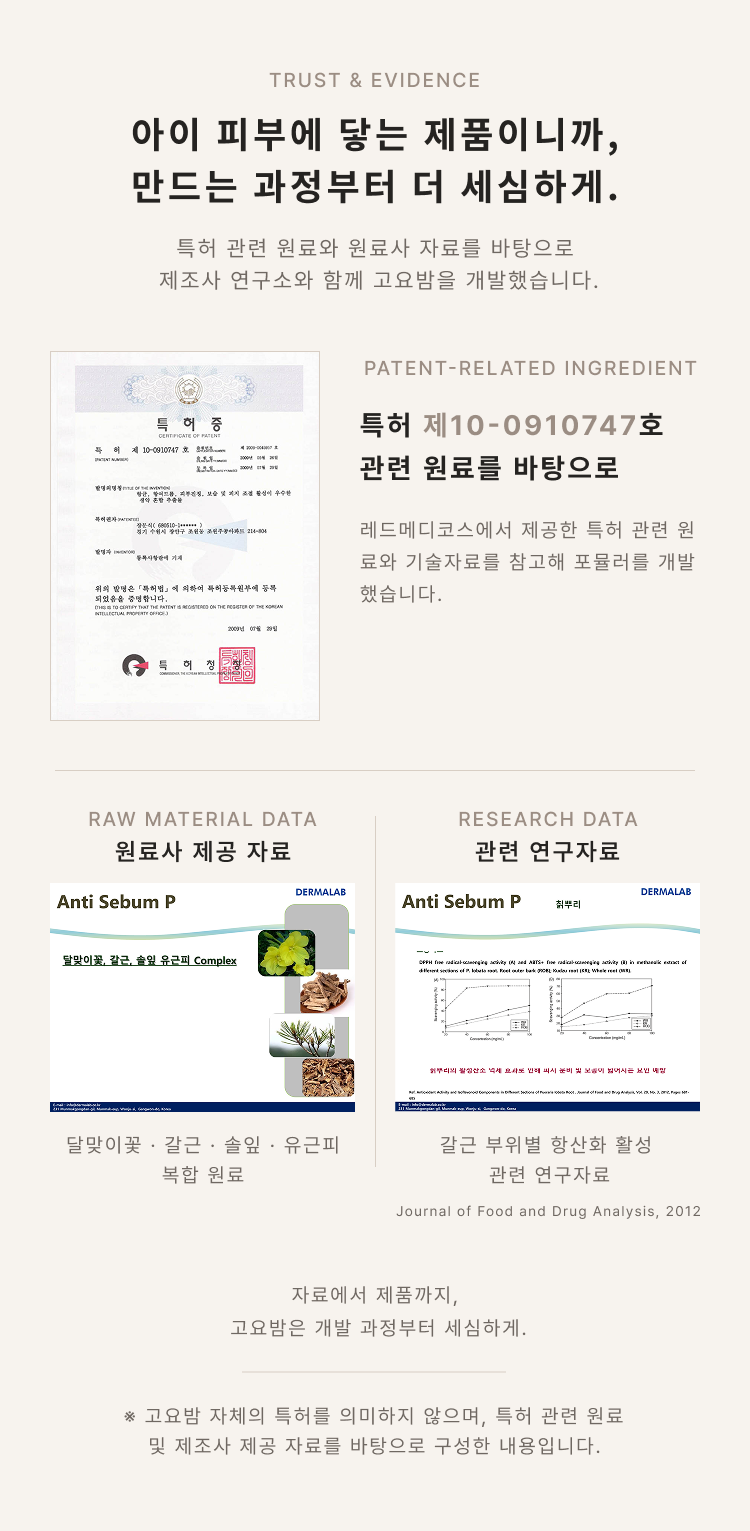
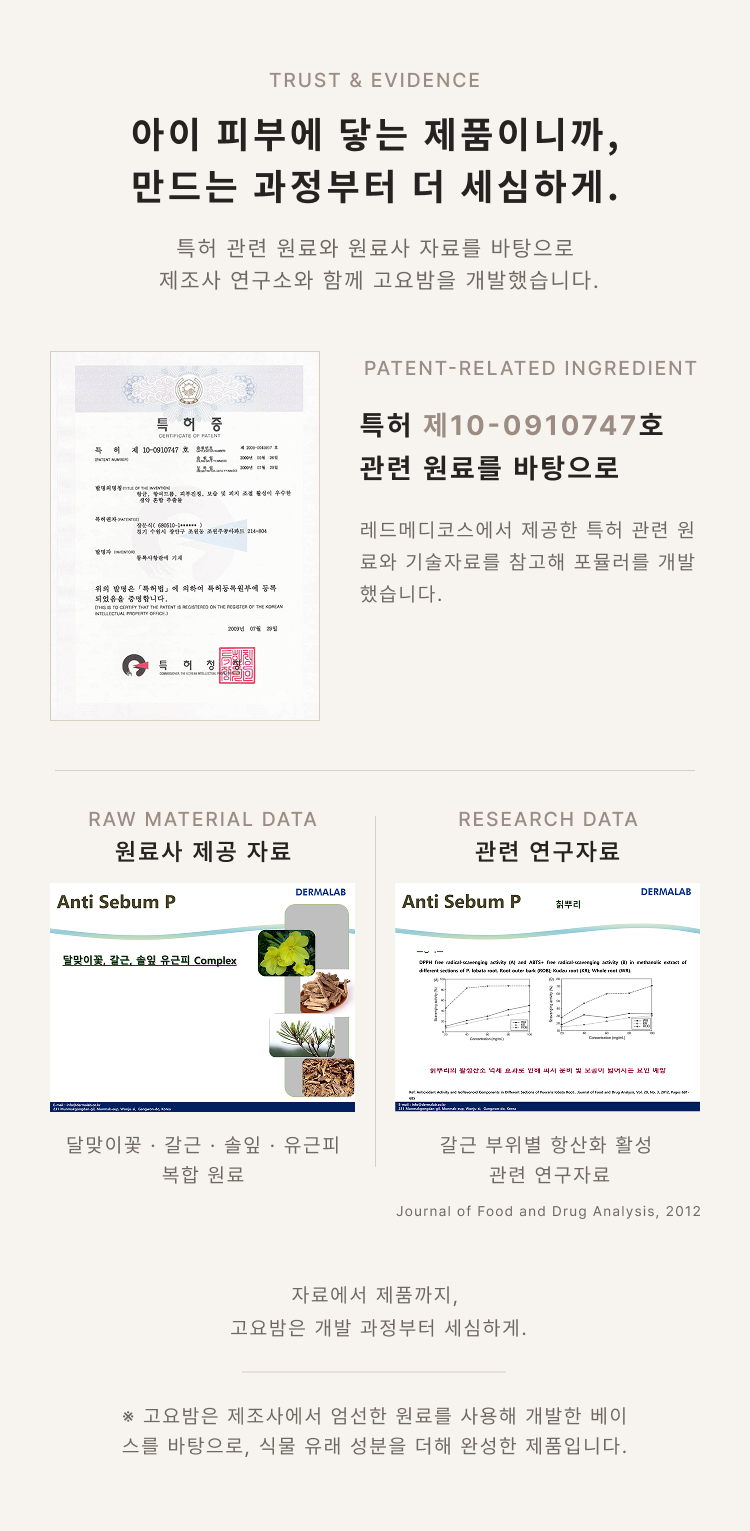
fix: update GOYOBAM detail pages 8 and 13

Changed region(s): [[0.1533, 0.921, 0.828, 0.9517]]

diff --git a/resole-lotion-demo/index.html b/resole-lotion-demo/index.html
@@ -54,8 +54,8 @@
       <div class="store-section-head"><div><p class="section-kicker">NEW ARRIVAL</p><h2>새롭게 만나는 RESOLE</h2></div><a href="#all">전체보기 <span>→</span></a></div>
       <div class="product-rail" aria-label="신상품 목록">
         <article class="product-card">
-          <a href="product/goyobam.html?v=20260905-r7" class="product-image-wrap"><span class="card-badge mist">NEW</span><img src="assets/goyobam/shop/thumb01.png?v=20260827-r1" alt="ROOTEDIT GOYOBAM 고요밤 150 ml" /></a>
-          <div class="product-card-body"><p class="product-brand">ROOTEDIT</p><a href="product/goyobam.html?v=20260905-r7" class="product-name">GOYOBAM 고요밤 150 ml</a><div class="product-availability"><strong>PORTFOLIO</strong><span>상세 보기</span></div><p class="product-meta">아이 피부 케어, 무엇부터 달라야 할까요?</p></div>
+          <a href="product/goyobam.html?v=20260908-r8" class="product-image-wrap"><span class="card-badge mist">NEW</span><img src="assets/goyobam/shop/thumb01.png?v=20260827-r1" alt="ROOTEDIT GOYOBAM 고요밤 150 ml" /></a>
+          <div class="product-card-body"><p class="product-brand">ROOTEDIT</p><a href="product/goyobam.html?v=20260908-r8" class="product-name">GOYOBAM 고요밤 150 ml</a><div class="product-availability"><strong>PORTFOLIO</strong><span>상세 보기</span></div><p class="product-meta">아이 피부 케어, 무엇부터 달라야 할까요?</p></div>
         </article>
         <article class="product-card">
           <a href="product/cream-mist.html" class="product-image-wrap"><span class="card-badge mist">NEW</span><img src="assets/cream-mist/shop/thumb01.jpg" alt="RESOLE 크림 미스트 80 mL" /></a>
@@ -82,7 +82,7 @@
     <section id="all" class="store-section store-shell compact-bottom">
       <div class="store-section-head"><div><p class="section-kicker">ALL PRODUCTS</p><h2>전체 상품</h2></div></div>
       <div class="all-product-grid">
-        <article class="product-card"><a href="product/goyobam.html?v=20260905-r7" class="product-image-wrap"><img src="assets/goyobam/shop/thumb06.png?v=20260827-r1" alt="ROOTEDIT GOYOBAM 고요밤 150 ml" /></a><div class="product-card-body"><p class="product-brand">ROOTEDIT</p><a href="product/goyobam.html?v=20260905-r7" class="product-name">GOYOBAM 고요밤 150 ml</a><div class="product-availability"><strong>PORTFOLIO</strong><span>상세 보기</span></div></div></article>
+        <article class="product-card"><a href="product/goyobam.html?v=20260908-r8" class="product-image-wrap"><img src="assets/goyobam/shop/thumb06.png?v=20260827-r1" alt="ROOTEDIT GOYOBAM 고요밤 150 ml" /></a><div class="product-card-body"><p class="product-brand">ROOTEDIT</p><a href="product/goyobam.html?v=20260908-r8" class="product-name">GOYOBAM 고요밤 150 ml</a><div class="product-availability"><strong>PORTFOLIO</strong><span>상세 보기</span></div></div></article>
         <article class="product-card"><a href="product/cream-mist.html" class="product-image-wrap"><img src="assets/cream-mist/shop/thumb05.jpg" alt="RESOLE 크림 미스트 80 mL" /></a><div class="product-card-body"><p class="product-brand">RESOLE</p><a href="product/cream-mist.html" class="product-name">크림 미스트 80 mL</a><div class="product-price"><strong>23,000원</strong><span>30%</span></div></div></article>
         <article class="product-card"><a href="product/radiance-body-mist.html" class="product-image-wrap"><img src="assets/body-mist/shop/S-06_thumb.png" alt="리솔90 레디언스 바디미스트 100 mL" /></a><div class="product-card-body"><p class="product-brand">RESOLE90</p><a href="product/radiance-body-mist.html" class="product-name">레디언스 바디미스트 100 mL</a><div class="product-availability"><strong>런칭 기념</strong><span>혜택 확인</span></div></div></article>
         <article class="product-card"><a href="product/barrier-lotion.html" class="product-image-wrap"><img src="../thumbs/thum03_00001_.png" alt="RESOLE 배리어 로션 300 mL" /></a><div class="product-card-body"><p class="product-brand">RESOLE</p><a href="product/barrier-lotion.html" class="product-name">배리어 로션 300 mL</a><div class="product-price"><strong>21,900원</strong><span>31%</span><del>31,900원</del></div></div></article>

diff --git a/resole-lotion-demo/goyobam/index.html b/resole-lotion-demo/goyobam/index.html
@@ -23,12 +23,12 @@
     <img src="../assets/goyobam/detail/05.png?v=20260905-r7" alt="고요밤 상세 아트보드 5" width="750" height="1410" loading="lazy" />
     <img src="../assets/goyobam/detail/06.png?v=20260905-r7" alt="고요밤 상세 아트보드 6" width="750" height="1488" loading="lazy" />
     <img src="../assets/goyobam/detail/07.png?v=20260905-r7" alt="고요밤 상세 아트보드 7" width="750" height="1696" loading="lazy" />
-    <img src="../assets/goyobam/detail/08.png?v=20260905-r7" alt="고요밤 상세 아트보드 8" width="750" height="1531" loading="lazy" />
+    <img src="../assets/goyobam/detail/08.png?v=20260908-r8" alt="고요밤 상세 아트보드 8" width="750" height="1531" loading="lazy" />
     <img src="../assets/goyobam/detail/09.png?v=20260905-r7" alt="고요밤 상세 아트보드 9" width="750" height="1809" loading="lazy" />
     <img src="../assets/goyobam/detail/10.png?v=20260905-r7" alt="고요밤 상세 아트보드 10" width="750" height="1862" loading="lazy" />
     <img src="../assets/goyobam/detail/11.png?v=20260905-r7" alt="고요밤 상세 아트보드 11" width="750" height="1275" loading="lazy" />
     <img src="../assets/goyobam/detail/12.png?v=20260905-r7" alt="고요밤 상세 아트보드 12" width="750" height="1161" loading="lazy" />
-    <img src="../assets/goyobam/detail/13.png?v=20260905-r7" alt="고요밤 상세 아트보드 13" width="750" height="1192" loading="lazy" />
+    <img src="../assets/goyobam/detail/13.png?v=20260908-r8" alt="고요밤 상세 아트보드 13" width="750" height="3183" loading="lazy" />
     <img src="../assets/goyobam/detail/14.png?v=20260905-r7" alt="고요밤 상세 아트보드 14" width="750" height="1951" loading="lazy" />
     <img src="../assets/goyobam/detail/15.png?v=20260905-r7" alt="고요밤 상세 아트보드 15" width="750" height="1823" loading="lazy" />
   </main>

diff --git a/resole-lotion-demo/product/goyobam.html b/resole-lotion-demo/product/goyobam.html
@@ -50,7 +50,7 @@
     </section>
     <nav class="detail-tabs store-shell"><a class="active" href="#detail">상세페이지</a><a href="#info">프로젝트 정보</a><a href="#faq">안내</a></nav>
     <section id="detail" class="mist-detail-section">
-      <iframe class="mist-detail-frame" data-detail-frame title="ROOTEDIT GOYOBAM 고요밤 상세페이지" src="../goyobam/index.html?v=20260905-r7" loading="eager" scrolling="no"></iframe>
+      <iframe class="mist-detail-frame" data-detail-frame title="ROOTEDIT GOYOBAM 고요밤 상세페이지" src="../goyobam/index.html?v=20260908-r8" loading="eager" scrolling="no"></iframe>
     </section>
     <section id="info" class="info-section store-shell detail-narrow"><h2>프로젝트 정보</h2><div class="info-grid"><div><span>브랜드</span><strong>ROOTEDIT</strong></div><div><span>제품명</span><strong>GOYOBAM 고요밤</strong></div><div><span>용량</span><strong>150 ml / 5.07 fl. oz.</strong></div></div></section>
     <section id="faq" class="faq store-shell detail-narrow"><h2>안내</h2><details open><summary>이 페이지는 실제 판매 페이지인가요?</summary><p>본 페이지는 상세페이지 디자인 포트폴리오 시안이며 실제 결제는 제공되지 않습니다.</p></details></section>
